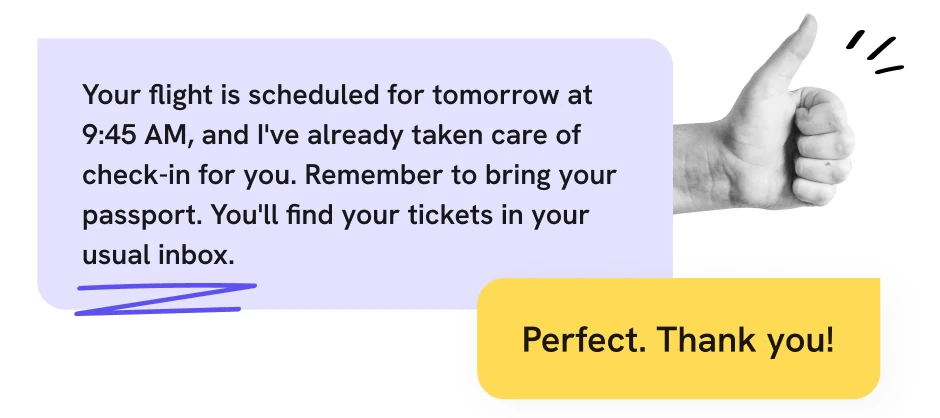
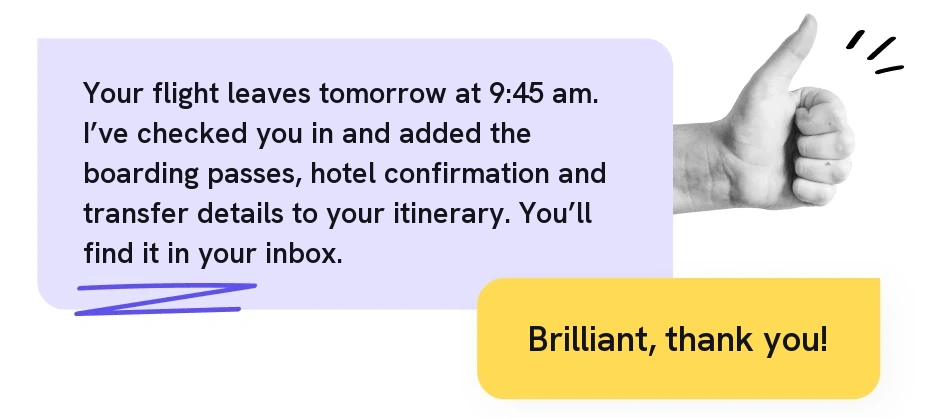
Update service images and index layout

Changed region(s): [[0.0617, 0.3732, 0.6787, 0.6531], [0.0926, 0.1866, 0.6479, 0.3732], [0.5553, 0.7775, 0.8947, 0.8708]]

diff --git a/index.html b/index.html
@@ -105,73 +105,73 @@
            ================================================================== -->
       <section id="services" class="services-section framer-xxvrb9" data-framer-name="Section_Services">
         <div class="section-heading-wrap scroll-reveal framer-ma0ffw" data-anim="heading" data-delay="0">
-          <h2 class="preset-h2">Discover My<br /><span class="text-purple">Premium Services</span></h2>
+          <h2 class="preset-h2">How I Help<br /><span class="text-purple">At Work and Home</span></h2>
         </div>
 
         <div class="services-grid framer-1niv5er">
-          <!-- Card 1: Travel Planning -->
+          <!-- Card 1: Travel & Events -->
           <div class="service-card-wrapper scroll-reveal framer-1qwqg0u" data-anim="card" data-delay="0.05">
             <div class="service-card framer-1dtc8ql" data-framer-name="Desktop Card ">
               <div class="service-card-img framer-1ppft2z">
-                <img src="assets/images/service-1-travel.webp" alt="" width="470" height="209" loading="lazy" />
+                <img src="assets/images/service-1-travel.webp?v=2" alt="" width="470" height="209" loading="lazy" />
               </div>
-              <h3 class="preset-h3">Travel Planning</h3>
-              <p class="preset-body">I will handle all aspects of your travel arrangements, from booking flights and hotels to organizing transportation and creating detailed itineraries. Enjoy stress-free travel with my expert planning.</p>
+              <h3 class="preset-h3">Travel &amp; Events</h3>
+              <p class="preset-body">I’ll help plan work trips, family getaways and special occasions. From researching flights and hotels to coordinating venues, transfers and itineraries, I’ll keep the details together so you know what’s booked and what’s next.</p>
             </div>
           </div>
 
-          <!-- Card 2: Appointment Scheduling -->
+          <!-- Card 2: Diary & Appointments -->
           <div class="service-card-wrapper scroll-reveal framer-1qwqg0u" data-anim="card" data-delay="0.05">
             <div class="service-card framer-1dtc8ql" data-framer-name="Desktop Card ">
               <div class="service-card-img framer-1ppft2z">
-                <img src="assets/images/service-2-appointment.webp" alt="" width="470" height="209" loading="lazy" />
+                <img src="assets/images/service-2-appointment.webp?v=2" alt="" width="470" height="209" loading="lazy" />
               </div>
-              <h3 class="preset-h3">Appointment Scheduling</h3>
-              <p class="preset-body">I will ensure your calendar stays organized and up-to-date. I will schedule, reschedule, and send reminders for all your appointments, ensuring you stay on track with your commitments effortlessly.</p>
+              <h3 class="preset-h3">Diary &amp; Appointments</h3>
+              <p class="preset-body">I’ll organise your diary, arrange meetings and appointments, and handle changes when plans shift. I’ll also keep track of deadlines and follow-ups, so you can see what’s coming up and what needs your attention.</p>
             </div>
           </div>
 
-          <!-- Card 3: Personal Shopping -->
+          <!-- Card 3: Lifestyle Concierge -->
           <div class="service-card-wrapper scroll-reveal framer-1qwqg0u" data-anim="card" data-delay="0.05">
             <div class="service-card framer-1dtc8ql" data-framer-name="Desktop Card ">
               <div class="service-card-img framer-1ppft2z">
-                <img src="assets/images/service-3-shopping.webp" alt="" width="470" height="209" loading="lazy" />
+                <img src="assets/images/service-3-shopping.webp?v=2" alt="" width="470" height="209" loading="lazy" />
               </div>
-              <h3 class="preset-h3">Personal Shopping</h3>
-              <p class="preset-body">Whether it’s finding the perfect gift or handling your grocery shopping, I will make purchasing decisions easy and efficient. I will handle everything from research to purchase, ensuring you get exactly what you need.</p>
+              <h3 class="preset-h3">Lifestyle Concierge</h3>
+              <p class="preset-body">From finding a thoughtful gift to sorting the personal admin you keep putting off, I’ll take those jobs off your list. Tell me what needs doing, and I’ll find the options and coordinate the details.</p>
             </div>
           </div>
 
-          <!-- Card 4: Research Assistance -->
+          <!-- Card 4: Client & Customer Care -->
           <div class="service-card-wrapper scroll-reveal framer-1qwqg0u" data-anim="card" data-delay="0.05">
             <div class="service-card framer-1dtc8ql" data-framer-name="Desktop Card ">
               <div class="service-card-img framer-1ppft2z">
-                <img src="assets/images/service-4-research.webp" alt="" width="470" height="209" loading="lazy" />
+                <img src="assets/images/service-4-research.webp?v=2" alt="" width="470" height="209" loading="lazy" />
               </div>
-              <h3 class="preset-h3">Research Assistance</h3>
-              <p class="preset-body">Need information fast? I will conduct thorough research on any topic, providing you with accurate and detailed reports, summaries, and data analysis tailored to your needs.</p>
+              <h3 class="preset-h3">Client &amp; Customer Care</h3>
+              <p class="preset-body">I’ll respond to enquiries, follow up with customers and keep clients updated on your behalf. I’ll write in your tone of voice and flag anything that needs a decision from you.</p>
             </div>
           </div>
 
-          <!-- Card 5: Email Management -->
+          <!-- Card 5: Inbox Management -->
           <div class="service-card-wrapper scroll-reveal framer-1qwqg0u" data-anim="card" data-delay="0.05">
             <div class="service-card framer-1dtc8ql" data-framer-name="Desktop Card ">
               <div class="service-card-img framer-1ppft2z">
-                <img src="assets/images/service-5-email.webp" alt="" width="470" height="209" loading="lazy" />
+                <img src="assets/images/service-5-email.webp?v=2" alt="" width="470" height="209" loading="lazy" />
               </div>
-              <h3 class="preset-h3">Email Management</h3>
-              <p class="preset-body">Overwhelmed by emails? Let me manage your inbox. With all my effort, I will sort, prioritize, and respond to messages on your behalf, so you can focus on what matters most.</p>
+              <h3 class="preset-h3">Inbox Management</h3>
+              <p class="preset-body">I’ll sort your inbox, bring important emails to the top and handle routine replies on your behalf. You’ll know what needs your attention, what’s been answered and what still needs a follow-up.</p>
             </div>
           </div>
 
-          <!-- Card 6: Social Media Management -->
+          <!-- Card 6: Social Media Support -->
           <div class="service-card-wrapper scroll-reveal framer-1qwqg0u" data-anim="card" data-delay="0.05">
             <div class="service-card framer-1dtc8ql" data-framer-name="Desktop Card ">
               <div class="service-card-img framer-1ppft2z">
-                <img src="assets/images/service-6-social.webp" alt="" width="470" height="209" loading="lazy" />
+                <img src="assets/images/service-6-social.webp?v=2" alt="" width="470" height="209" loading="lazy" />
               </div>
-              <h3 class="preset-h3">Social Media Management</h3>
-              <p class="preset-body">I will maintain a vibrant social media presence for you. I will create, schedule, and manage your posts, engage with your followers, and analyze performance metrics to boost your online impact.</p>
+              <h3 class="preset-h3">Social Media Support</h3>
+              <p class="preset-body">I’ll help with outreach, reply to DMs and customer questions, and post the content you’ve prepared. Your accounts stay active and your customers get a reply while you get on with running the business.</p>
             </div>
           </div>
         </div>
